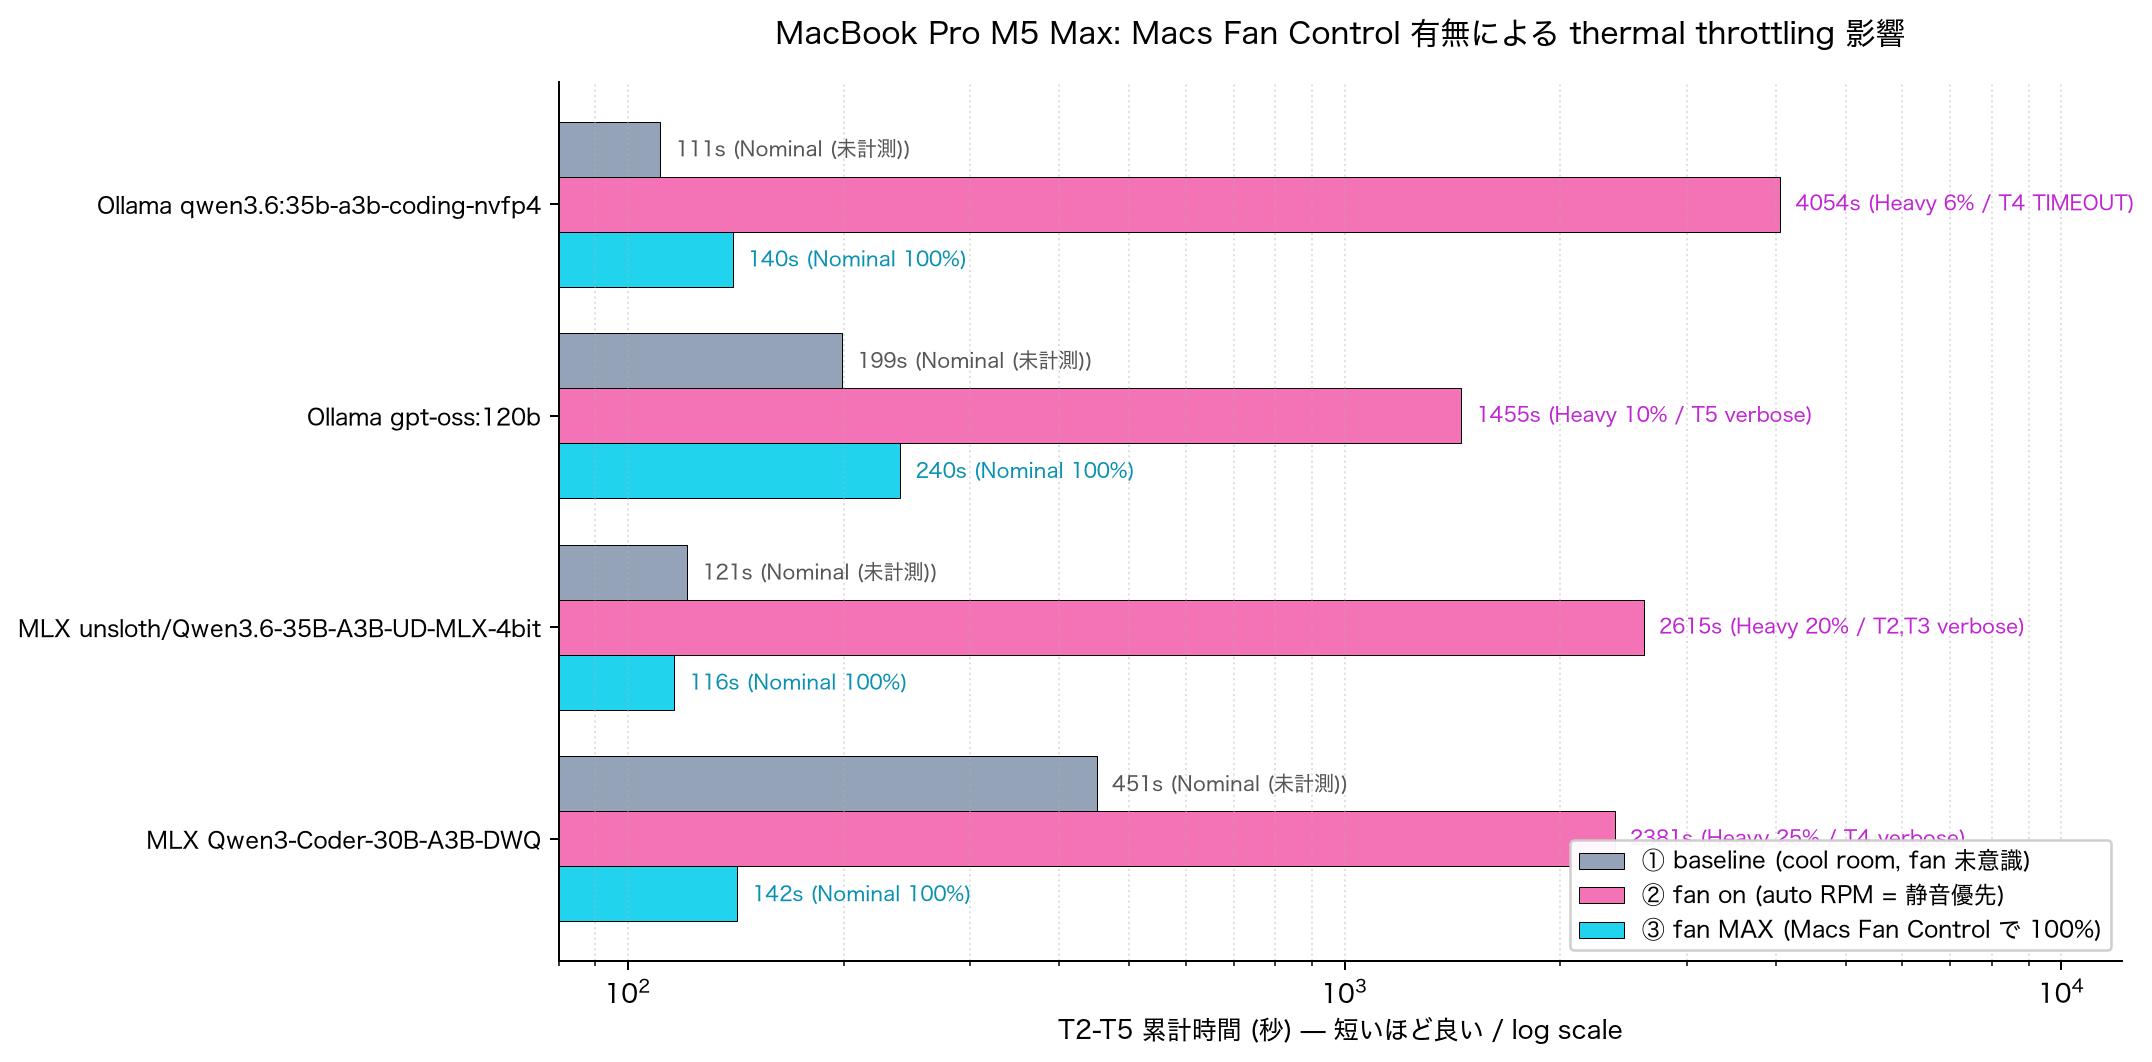
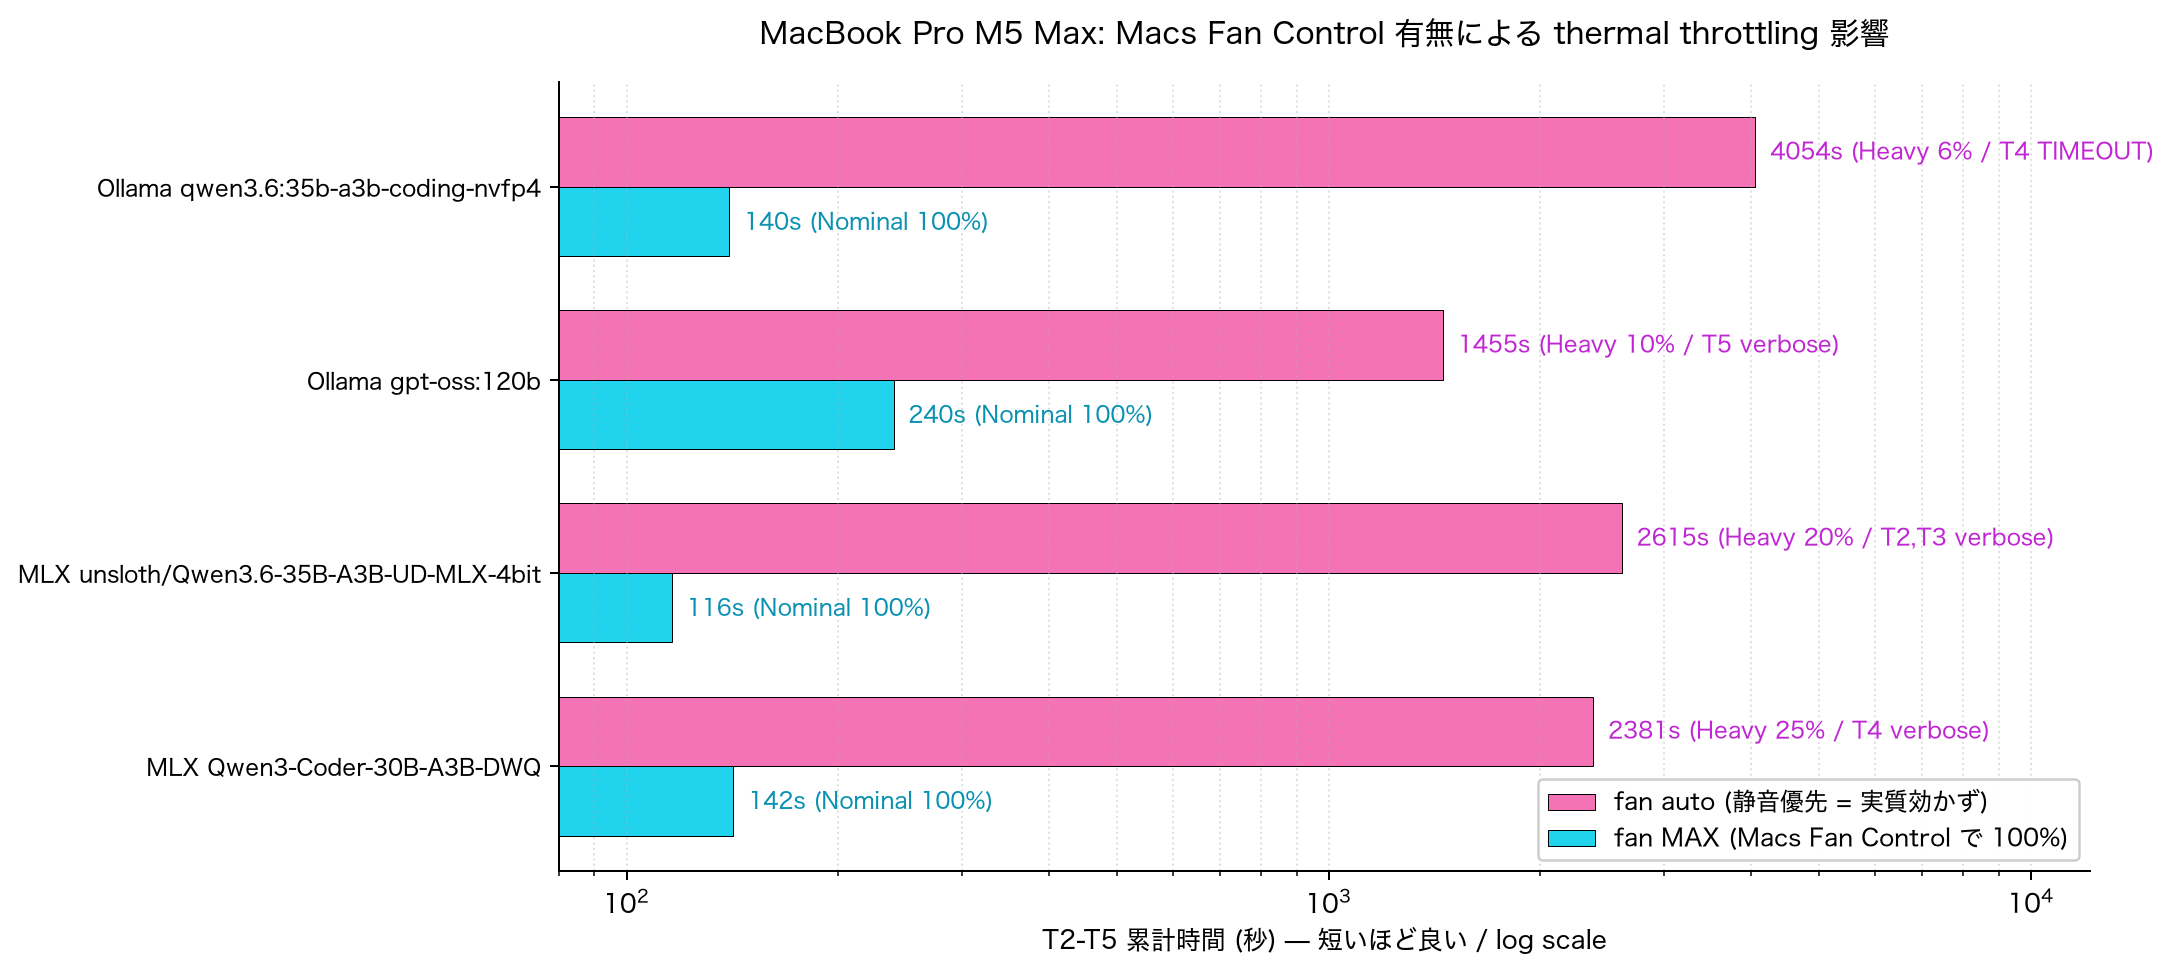
Drop baseline row from cooling-impact-m5max chart
The "baseline (cool room, fan 未意識)" bar was gray, unlabeled with a
thermal_pressure figure (marked "Nominal (未計測)"), and mostly served
as a distraction from the actual comparison of interest — fan auto vs
fan MAX under matched, thermally-instrumented conditions. Removed it.

Chart now shows just the two directly-comparable measurements per
model, both taken with `sudo powermetrics` running alongside the bench:
- fan auto (pink): 静音優先 = 実質効かず
- fan MAX (cyan): Macs Fan Control で 100%

Bars became thicker (0.36 vs 0.26) with the third row gone, and label
text upped to 9pt for readability.

Claude-Session: https://claude.ai/code/session_01TppKBT3k2PPTFHJukYfXHm

diff --git a/scripts/generate_chart.py b/scripts/generate_chart.py
@@ -212,47 +212,38 @@ print(f"Wrote {OUT2.relative_to(Path(__file__).resolve().parent.parent)}")
 # ============================================================
 
 @dataclass
-class CoolingTriple:
+class CoolingPairFan:
     label: str
-    baseline: int   # 初回計測 (fan未意識、cool room だった時に取れた best case)
     fan_on: int     # fan on だが auto RPM (静音優先) → 実質効いてない
     fan_max: int    # Macs Fan Control で fans を 100% にピン留め
-    baseline_note: str = ""
     fan_on_note: str = ""
     fan_max_note: str = ""
 
-# Data: results/{ollama,mlx}/times.txt + results_cooling/cool_0714_1202/,
-# results_cooling/fanmax_0715_0019/ の cumulative T2-T5 秒数
-COOLING_M5MAX: list[CoolingTriple] = [
-    CoolingTriple("Ollama qwen3.6:35b-a3b-coding-nvfp4",
-                  111, 4054, 140,
-                  "Nominal (未計測)", "Heavy 6% / T4 TIMEOUT", "Nominal 100%"),
-    CoolingTriple("Ollama gpt-oss:120b",
-                  199, 1455, 240,
-                  "Nominal (未計測)", "Heavy 10% / T5 verbose", "Nominal 100%"),
-    CoolingTriple("MLX unsloth/Qwen3.6-35B-A3B-UD-MLX-4bit",
-                  121, 2615, 116,
-                  "Nominal (未計測)", "Heavy 20% / T2,T3 verbose", "Nominal 100%"),
-    CoolingTriple("MLX Qwen3-Coder-30B-A3B-DWQ",
-                  451, 2381, 142,
-                  "Nominal (未計測)", "Heavy 25% / T4 verbose", "Nominal 100%"),
+# Data: results_cooling/cool_0714_1202/ (fan auto), results_cooling/fanmax_0715_0019/ (fan MAX)
+# cumulative T2-T5 秒数、両条件とも sudo powermetrics で thermal_pressure 並行計測
+COOLING_M5MAX: list[CoolingPairFan] = [
+    CoolingPairFan("Ollama qwen3.6:35b-a3b-coding-nvfp4",
+                   4054, 140, "Heavy 6% / T4 TIMEOUT", "Nominal 100%"),
+    CoolingPairFan("Ollama gpt-oss:120b",
+                   1455, 240, "Heavy 10% / T5 verbose", "Nominal 100%"),
+    CoolingPairFan("MLX unsloth/Qwen3.6-35B-A3B-UD-MLX-4bit",
+                   2615, 116, "Heavy 20% / T2,T3 verbose", "Nominal 100%"),
+    CoolingPairFan("MLX Qwen3-Coder-30B-A3B-DWQ",
+                   2381, 142, "Heavy 25% / T4 verbose", "Nominal 100%"),
 ]
 
-fig3, ax3 = plt.subplots(figsize=(12, 6))
+fig3, ax3 = plt.subplots(figsize=(12, 5.5))
 n3 = len(COOLING_M5MAX)
 y3 = list(range(n3))[::-1]
-bh = 0.26
+bh = 0.36
 
-base_vals   = [p.baseline for p in COOLING_M5MAX]
 fanon_vals  = [p.fan_on   for p in COOLING_M5MAX]
 fanmax_vals = [p.fan_max  for p in COOLING_M5MAX]
 
-ax3.barh([yi + bh for yi in y3], base_vals, height=bh,
-         color="#94a3b8", edgecolor="black", linewidth=0.4, label="① baseline (cool room, fan 未意識)")
-ax3.barh(y3, fanon_vals, height=bh,
-         color="#f472b6", edgecolor="black", linewidth=0.4, label="② fan on (auto RPM = 静音優先)")
-ax3.barh([yi - bh for yi in y3], fanmax_vals, height=bh,
-         color="#22d3ee", edgecolor="black", linewidth=0.4, label="③ fan MAX (Macs Fan Control で 100%)")
+ax3.barh([yi + bh/2 for yi in y3], fanon_vals, height=bh,
+         color="#f472b6", edgecolor="black", linewidth=0.4, label="fan auto (静音優先 = 実質効かず)")
+ax3.barh([yi - bh/2 for yi in y3], fanmax_vals, height=bh,
+         color="#22d3ee", edgecolor="black", linewidth=0.4, label="fan MAX (Macs Fan Control で 100%)")
 
 ax3.set_yticks(y3)
 ax3.set_yticklabels([p.label for p in COOLING_M5MAX], fontsize=9)
@@ -262,18 +253,16 @@ ax3.set_title("MacBook Pro M5 Max: Macs Fan Control 有無による thermal thro
               fontsize=12, pad=15)
 
 for yi, p in zip(y3, COOLING_M5MAX):
-    ax3.text(p.baseline * 1.05, yi + bh, f"{p.baseline}s ({p.baseline_note})",
-             va="center", fontsize=8, color="#555")
-    ax3.text(p.fan_on * 1.05, yi, f"{p.fan_on}s ({p.fan_on_note})",
-             va="center", fontsize=8, color="#c026d3")
-    ax3.text(p.fan_max * 1.05, yi - bh, f"{p.fan_max}s ({p.fan_max_note})",
-             va="center", fontsize=8, color="#0891b2")
+    ax3.text(p.fan_on * 1.05, yi + bh/2, f"{p.fan_on}s ({p.fan_on_note})",
+             va="center", fontsize=9, color="#c026d3")
+    ax3.text(p.fan_max * 1.05, yi - bh/2, f"{p.fan_max}s ({p.fan_max_note})",
+             va="center", fontsize=9, color="#0891b2")
 
 ax3.set_xlim(80, max(fanon_vals) * 3)
 ax3.grid(axis="x", linestyle=":", alpha=0.4, which="both")
 ax3.spines["top"].set_visible(False)
 ax3.spines["right"].set_visible(False)
-ax3.legend(loc="lower right", fontsize=9, framealpha=0.95)
+ax3.legend(loc="lower right", fontsize=9.5, framealpha=0.95)
 
 plt.tight_layout()
 OUT3 = Path(__file__).resolve().parent.parent / "docs" / "assets" / "cooling-impact-m5max.png"
